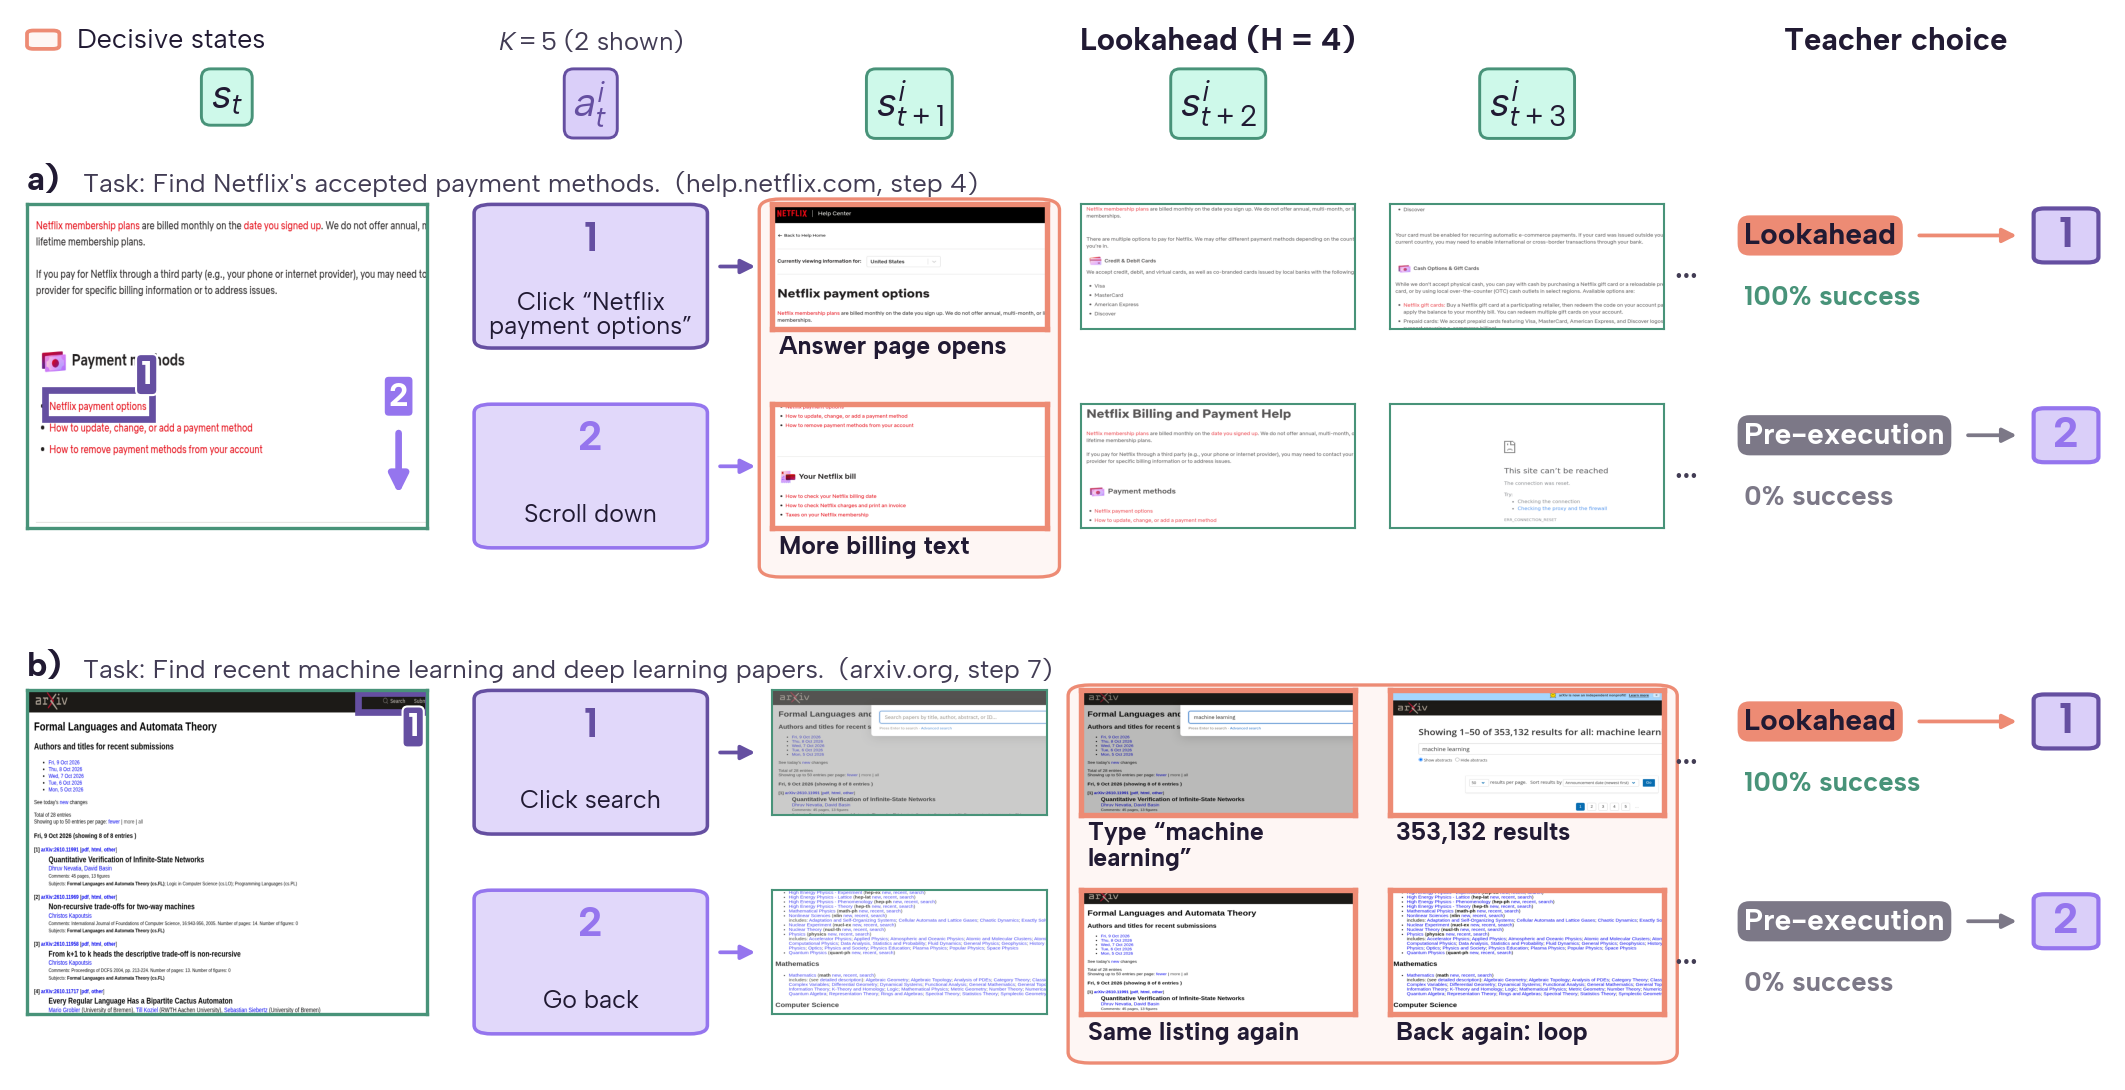
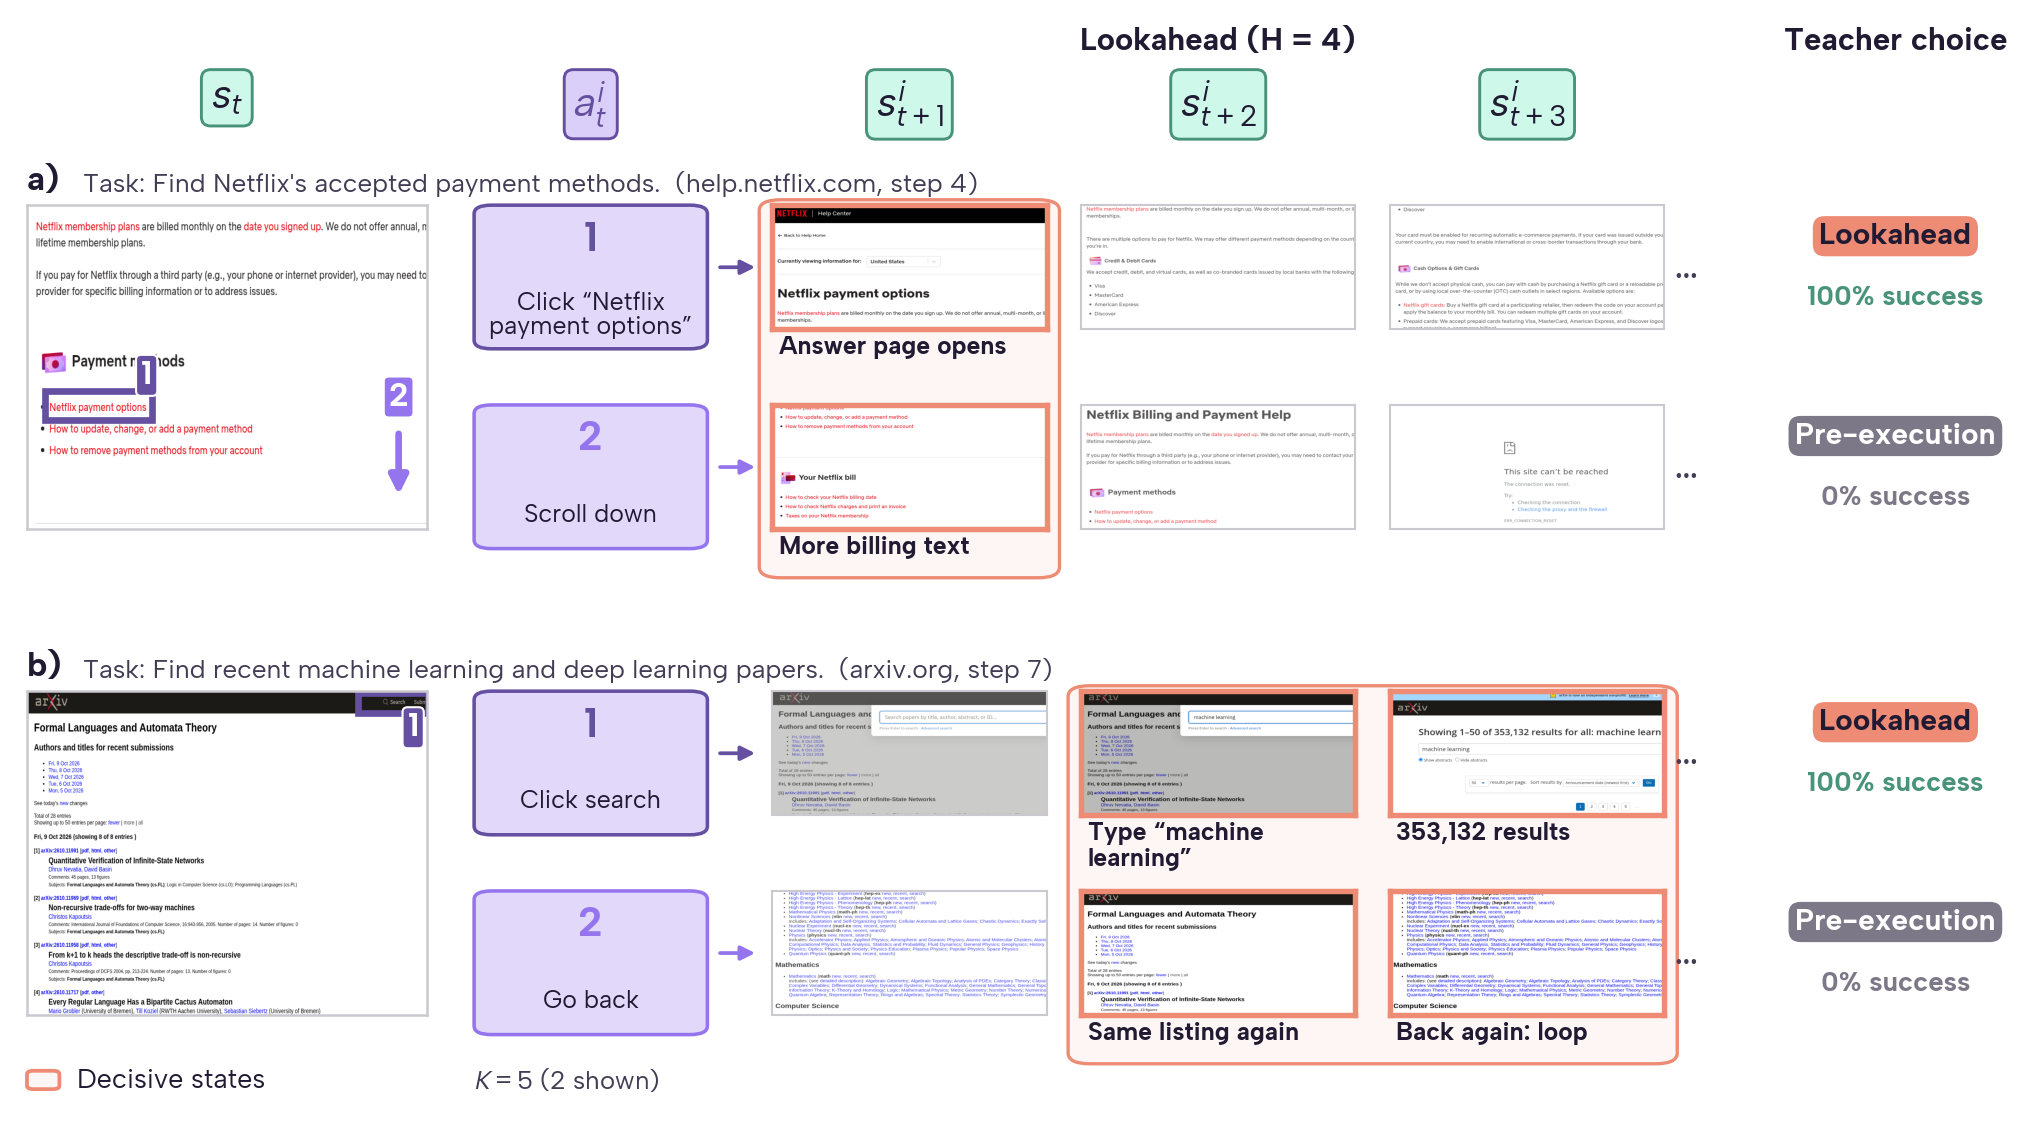
Simplify example choices and move figure key below panels

diff --git a/openwebrl/docs/arm_results/luna_pre_post_k3_20261105/compact_examples.py b/openwebrl/docs/arm_results/luna_pre_post_k3_20261105/compact_examples.py
@@ -104,12 +104,12 @@ def main():
                 if is_math else None)
         fig.text(x, .945 if is_math else .993, t, fontsize=10 if is_math else 7.5,
                  color=color, bbox=bbox, ha="center", va="top", fontweight="bold", linespacing=1.1)
-    fig.text(xa + wa / 2, .993, r"$K=5$ (2 shown)", fontsize=6.2,
-             color=MUTED, ha="center", va="top")
-    fig.add_artist(FancyBboxPatch((xc, .972), .015, .017,
+    fig.text(xa, .005, r"$K=5$ (2 shown)", fontsize=6.2,
+             color=MUTED, ha="left", va="bottom")
+    fig.add_artist(FancyBboxPatch((xc, .0095), .015, .017,
                                   boxstyle="round,pad=0,rounding_size=.003",
                                   fc=BAND, ec=BANDEDGE, lw=.9, transform=fig.transFigure))
-    fig.text(xc + .023, .9805, "Decisive states", fontsize=6.5, color=INK, va="center")
+    fig.text(xc + .023, .005, "Decisive states", fontsize=6.5, color=INK, va="bottom")
     for j in range(3):
         label = rf"$s_{{t+{j + 1}}}^i$"
         fig.text(xt + j * (wt + gt) + wt / 2, .945, label,
@@ -129,7 +129,7 @@ def main():
         fig.add_artist(FancyBboxPatch((bx0, y - block_h - 0.045), bx1 - bx0, block_h + 0.05,
                                       boxstyle="round,pad=0,rounding_size=0.01", fc=BAND, ec=BANDEDGE, lw=0.8,
                                       transform=fig.transFigure, zorder=-5))
-        ax = pic(fig, [xc, y - block_h, wc, block_h], crop(cur, ex["cur"]), edge=C["STATE_BORDER"], lw=.8)
+        ax = pic(fig, [xc, y - block_h, wc, block_h], crop(cur, ex["cur"]))
         for k, (i, label, caps) in enumerate(ex["cands"]):
             action_id = str(k + 1)
             col = C["ACTION_INK"] if k == 0 else C["ACTION"]
@@ -160,7 +160,7 @@ def main():
                 rx = xt + j * (wt + gt)
                 if j < len(shots):
                     key = j in ex["decide"]
-                    a_ = pic(fig, [rx, ry, wt, th], crop(shots[j], ex["thumb"]), edge=BANDEDGE if key else C["STATE_BORDER"],
+                    a_ = pic(fig, [rx, ry, wt, th], crop(shots[j], ex["thumb"]), edge=BANDEDGE if key else C["BORDER"],
                              lw=1.3 if key else 0.5)
                     if not key:                    # fade evidence that does not decide this example
                         a_.add_patch(Rectangle((0, 0), 1, 1, transform=a_.transAxes, fc="white", alpha=0.25, ec="none"))
@@ -171,23 +171,15 @@ def main():
                     fig.text(rx + wt + gt / 2, ry + th / 2, "not needed: the screen right after\nthe action already differs",
                              fontsize=5.8, color=MUTED, ha="center", va="center", style="italic")
             fig.text(xt + 3 * wt + 2 * gt + 0.004, ry + th / 2, "…", fontsize=10, color=C["MUTED"], va="center")
-            bx = xp
+            bx = xp + .07
             for kk in [kk for kk in ("pre", "k3") if p[kk].count(i) == 2]:
                 cy = ry + th * .75
-                t_ = fig.text(bx, cy, NAME[kk], fontsize=7.2, color="white" if kk == "pre" else INK, fontweight="bold", va="center",
+                fig.text(bx, cy, NAME[kk], fontsize=7.2, color="white" if kk == "pre" else INK,
+                         fontweight="bold", ha="center", va="center",
                               bbox=dict(boxstyle="round,pad=0.22,rounding_size=0.4", fc=COLOR[kk], ec="none"))
-                fig.canvas.draw()
-                method_right = t_.get_bbox_patch().get_window_extent().transformed(fig.transFigure.inverted()).x1
-                arrow(fig, method_right + .004, .945, cy, COLOR[kk])
-                fig.add_artist(FancyBboxPatch((.949, cy - .025), .030, .050,
-                                              boxstyle="round,pad=0,rounding_size=.005",
-                                              fc=tint("ACTION", .65), ec=col, lw=1,
-                                              transform=fig.transFigure))
-                fig.text(.964, cy, action_id, fontsize=10.5, color=col,
-                         weight="bold", ha="center", va="center")
             s, n = held(x["actions"][i])
-            fig.text(xp, ry + th * 0.25, f"{100 * s / n:.0f}% success", fontsize=6.6, fontweight="bold",
-                     color=GOOD if s / n > 0.5 else BAD, va="center")
+            fig.text(bx, ry + th * 0.25, f"{100 * s / n:.0f}% success", fontsize=6.6, fontweight="bold",
+                     color=GOOD if s / n > 0.5 else BAD, ha="center", va="center")
         y = y - block_h - 0.15
     fig.canvas.draw()
     renderer = fig.canvas.get_renderer()
